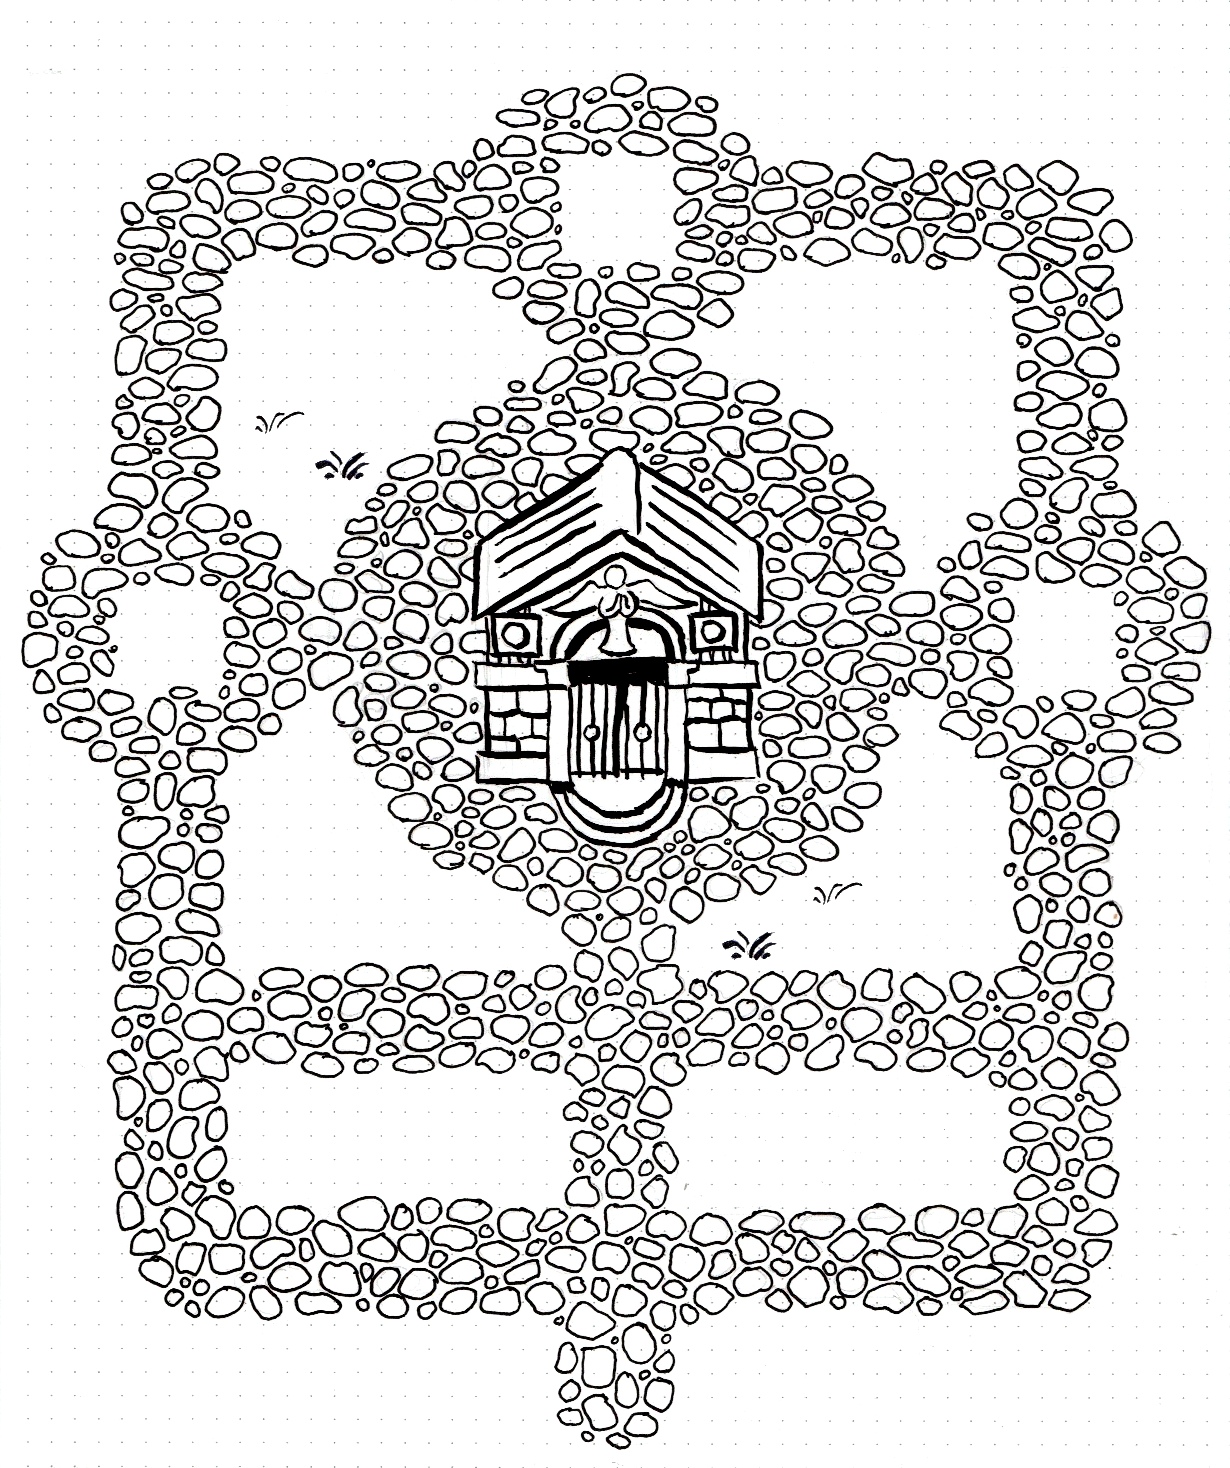
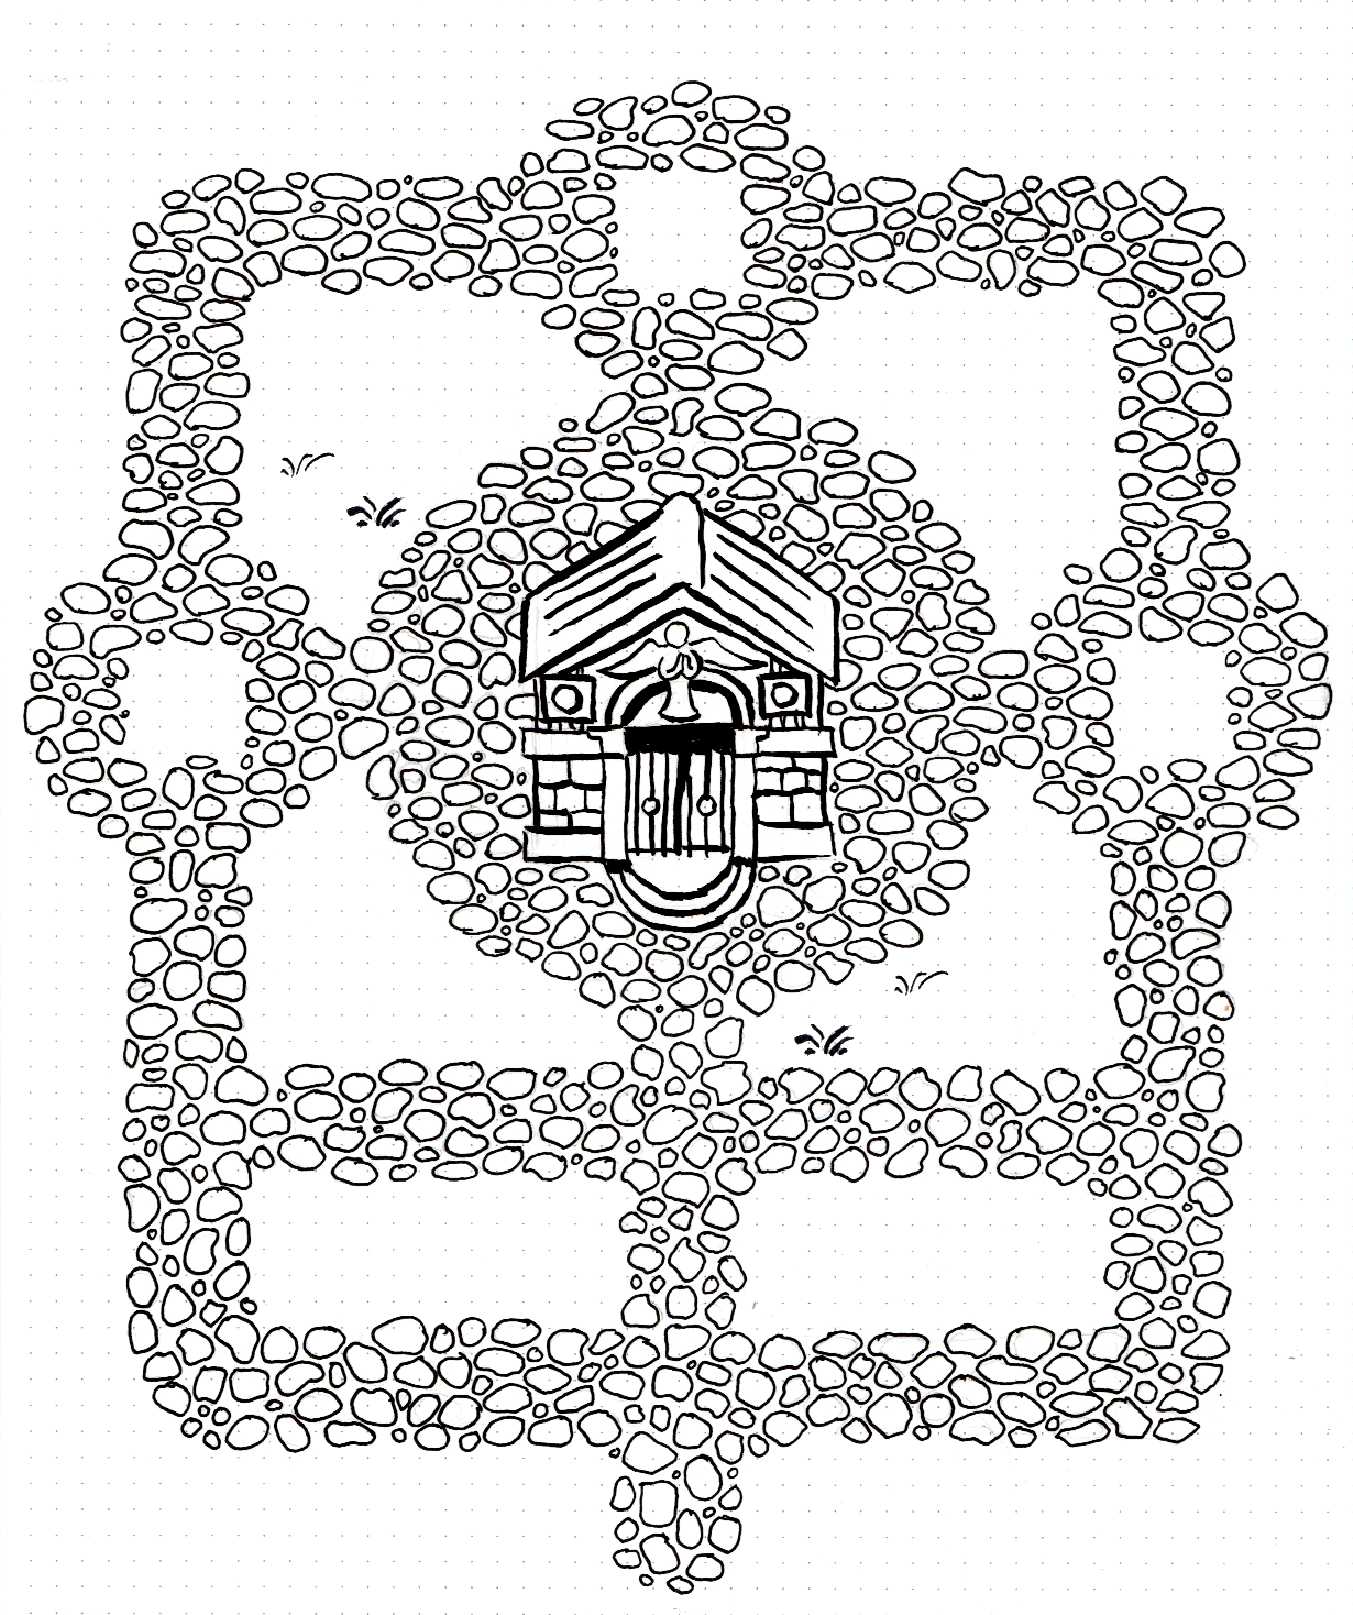
DOORS! Also scale up grounds as workaround for lame collision detection.

Changed region(s): [[0.0309, 0.0613, 0.9886, 0.9809]]

diff --git a/HallOfPresidents/src/main/java/net/culturematic/hallofpresidents/LevelReader.java b/HallOfPresidents/src/main/java/net/culturematic/hallofpresidents/LevelReader.java
@@ -225,24 +225,35 @@ public class LevelReader {
             throws JSONException {
         String name = eventDescription.getString("name");
         JSONObject boundsObj = eventDescription.getJSONObject("bounds");
-        final int unscaledTop = boundsObj.getInt("top");
-        final int unscaledRight = boundsObj.getInt("right");
-        final int unscaledLeft = boundsObj.getInt("left");
-        final int unscaledBottom = boundsObj.getInt("bottom");
+        final int unscaledLeft = boundsObj.getInt("x");
+        final int unscaledTop = boundsObj.getInt("y");
+        final int unscaledWidth = boundsObj.getInt("width");
+        final int unscaledHeight = boundsObj.getInt("height");
         final Rect bounds = new Rect(
                 mAssetLoader.scaleInt(unscaledLeft),
                 mAssetLoader.scaleInt(unscaledTop),
-                mAssetLoader.scaleInt(unscaledRight),
-                mAssetLoader.scaleInt(unscaledBottom)
+                mAssetLoader.scaleInt(unscaledLeft + unscaledWidth),
+                mAssetLoader.scaleInt(unscaledTop + unscaledHeight)
         );
 
         Dialog dialog = null;
+        WorldEvent.Door door = null;
         if (eventDescription.has("dialog")) {
             JSONObject dialogDesc = eventDescription.getJSONObject("dialog");
             dialog = readDialog(dialogDesc);
         }
+        if (eventDescription.has("door")) {
+            JSONObject doorDesc = eventDescription.getJSONObject("door");
+            JSONObject destPositionDesc = doorDesc.getJSONObject("dest_position");
+            PointF destPosition = new PointF(
+                mAssetLoader.scaleInt(destPositionDesc.getInt("x")),
+                mAssetLoader.scaleInt(destPositionDesc.getInt("y"))
+            );
+            String destRoomName = doorDesc.getString("dest_room");
+            door = new WorldEvent.Door(destRoomName, destPosition);
+        }
 
-        return new WorldEvent(bounds, name, dialog);
+        return new WorldEvent(bounds, name, dialog, door);
     }
 
     final AssetLoader mAssetLoader;

diff --git a/HallOfPresidents/src/main/java/net/culturematic/hallofpresidents/WorldEvent.java b/HallOfPresidents/src/main/java/net/culturematic/hallofpresidents/WorldEvent.java
@@ -1,13 +1,32 @@
 package net.culturematic.hallofpresidents;
 
+import android.graphics.PointF;
 import android.graphics.Rect;
 
 public class WorldEvent {
+    public static class Door {
+        public Door(final String destRoomName, final PointF destPosition) {
+            mDestRoomName = destRoomName;
+            mDestPosition = destPosition;
+        }
 
-    public WorldEvent(final Rect bounds, final String name, final Dialog dialog) {
+        public String getDestRoomName() {
+            return mDestRoomName;
+        }
+
+        public PointF getDestPosition() {
+            return mDestPosition;
+        }
+
+        private final String mDestRoomName;
+        private final PointF mDestPosition;
+    }
+
+    public WorldEvent(final Rect bounds, final String name, final Dialog dialog, final Door door) {
         mBounds = bounds;
         mName = name;
         mDialog = dialog;
+        mDoor = door;
     }
 
     public Rect getBounds() {
@@ -22,7 +41,12 @@ public class WorldEvent {
         return mDialog;
     }
 
+    public Door getDoor() {
+        return mDoor;
+    }
+
     private final Rect mBounds;
     private final String mName;
     private final Dialog mDialog;
+    private final Door mDoor;
 }

diff --git a/HallOfPresidents/src/main/java/net/culturematic/hallofpresidents/GameCharacter.java b/HallOfPresidents/src/main/java/net/culturematic/hallofpresidents/GameCharacter.java
@@ -32,6 +32,7 @@ public class GameCharacter {
         final long deltaTime = milliTime - mLastTime;
         final PointF position = mLevelState.getPosition();
         final float distance = mCharacterState.getSpeedPxPerMilli() * deltaTime;
+
         if (updatePosition(direction, distance, position, currentRoom)) {
             // This is useful when debugging starting positions and event layouts
             // System.out.println("CHARACTER POSITION CHANGE TO " + position.x + ", " + position.y);
@@ -69,6 +70,9 @@ public class GameCharacter {
         final int halfBoundsWidth = sprites.boundsWidth / 2;
         final int boundsHeight = sprites.boundsHeight;
 
+        // TODO this bounds checking is bad- as distance goes up, the character
+        // refuses to move further and further away from the obstruction.
+        // What we need is a nice DB of shapes and how-farness.
         boolean ret = false;
         switch (direction) {
             case DIRECTION_UP:

diff --git a/HallOfPresidents/src/main/java/net/culturematic/hallofpresidents/WorldScreen.java b/HallOfPresidents/src/main/java/net/culturematic/hallofpresidents/WorldScreen.java
@@ -52,6 +52,17 @@ public class WorldScreen implements Screen {
 
         PointF heroPosition = mLevelState.getPosition();
         WorldEvent worldEvent = room.checkForEvent(heroPosition);
+
+        if (null != worldEvent) {
+            WorldEvent.Door door = worldEvent.getDoor();
+            if (null != door) {
+                mLevelState.setRoomName(door.getDestRoomName());
+                mLevelState.setPosition(door.getDestPosition());
+                return;
+            }
+        }
+        // ELSE IF NO DOOR
+
         if (null != worldEvent) {
             Dialog dialog = worldEvent.getDialog();
             mLevelState.setDialogAvailable(dialog);
